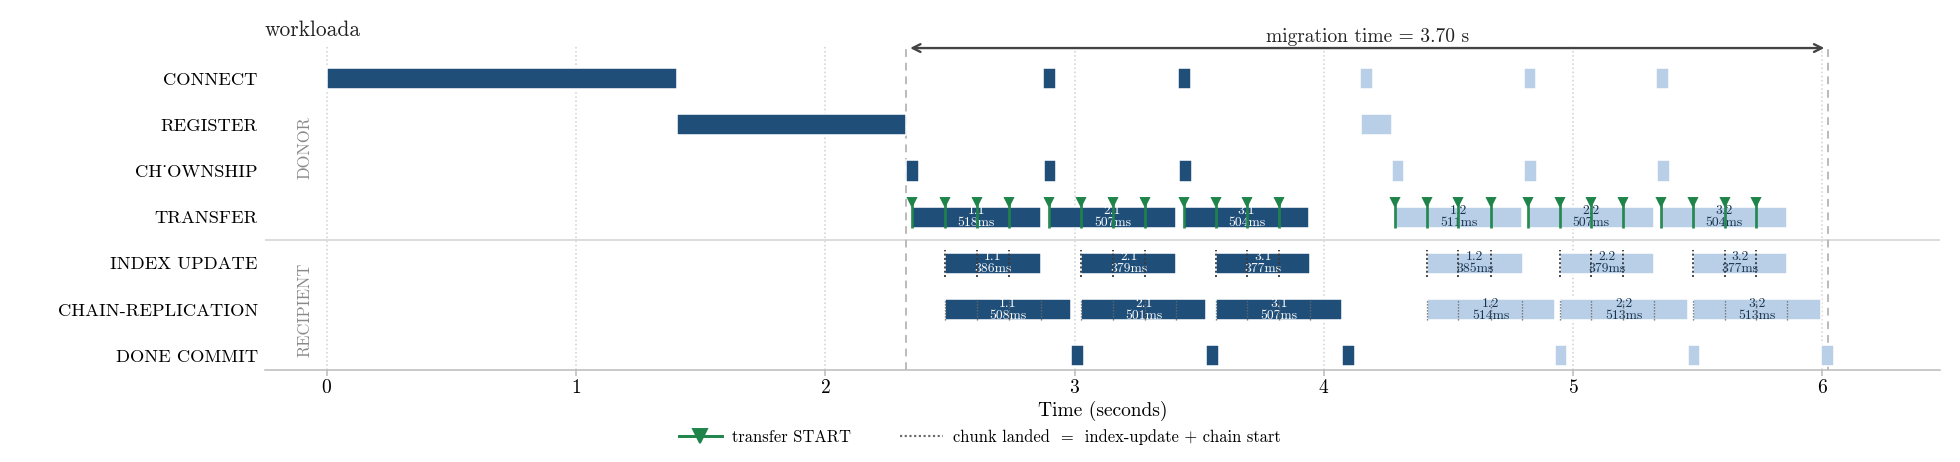
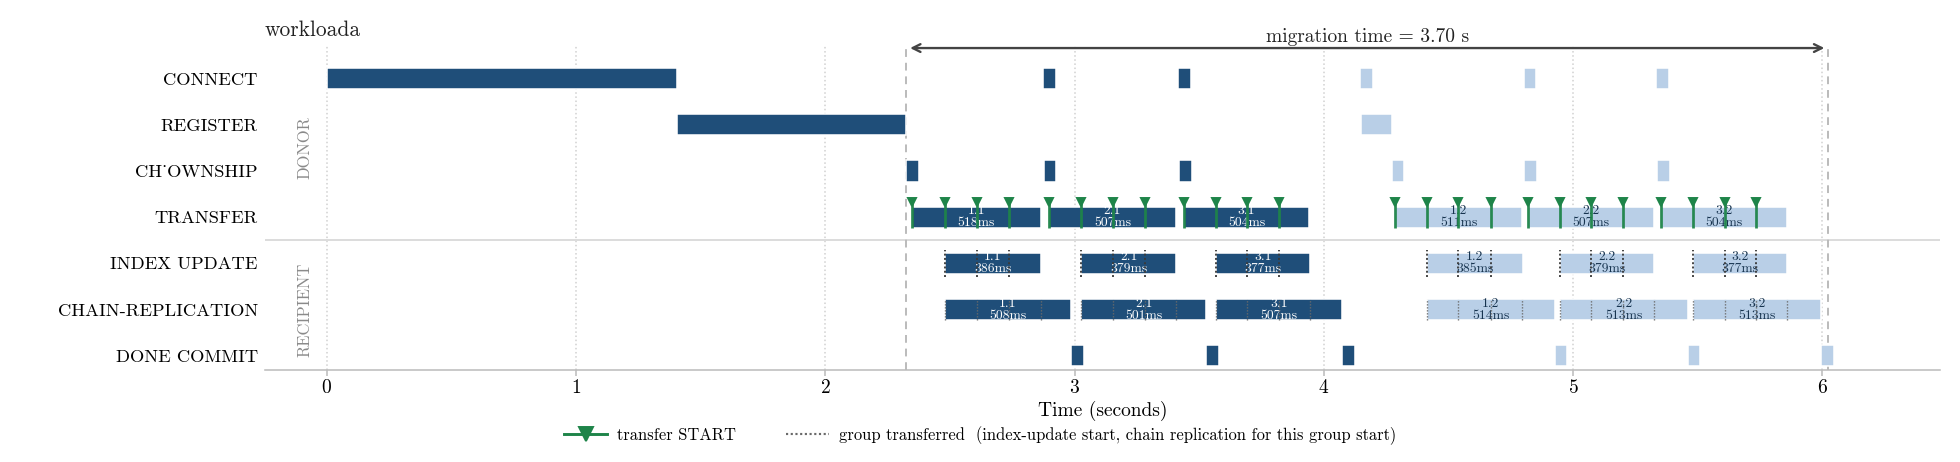
gantt: relabel grey legend entry to "group transferred"
Grey dotted legend now reads "group transferred (index-update start, chain
replication for this group start)". Refresh both reference Gantts.

Changed region(s): [[0.2801, 0.9091, 0.7158, 0.9697]]

diff --git a/plot_phase_gantt.py b/plot_phase_gantt.py
@@ -256,7 +256,7 @@ if _nck:
         Line2D([0], [0], color=_GRN, lw=1.5, marker="v", markersize=7,
                label="transfer START"),
         Line2D([0], [0], color="#6a6a6a", lw=1.1, ls=(0, (1, 1.2)),
-               label="chunk landed  =  index-update + chain start"),
+               label="group transferred  (index-update start, chain replication for this group start)"),
     ]
 
 # panel label, top-left (echoes the reference's "0.1 MOp/s" style)
